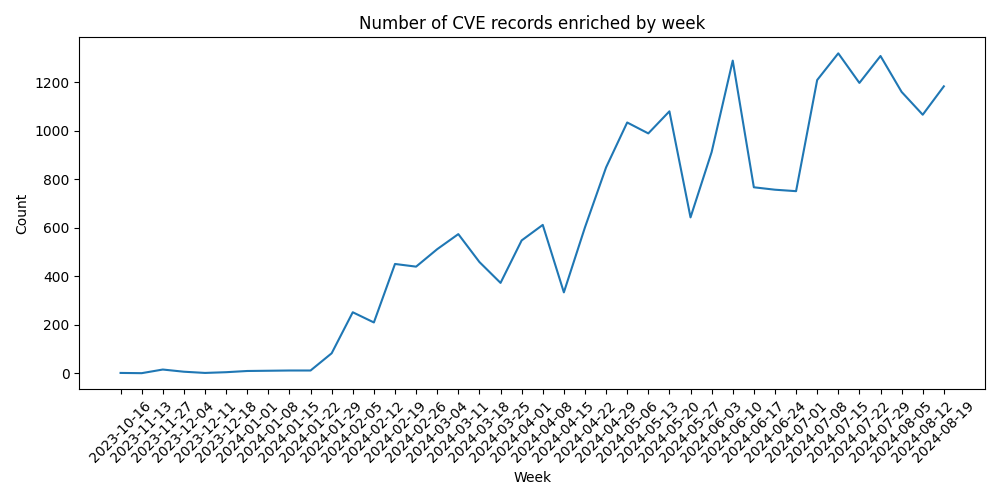
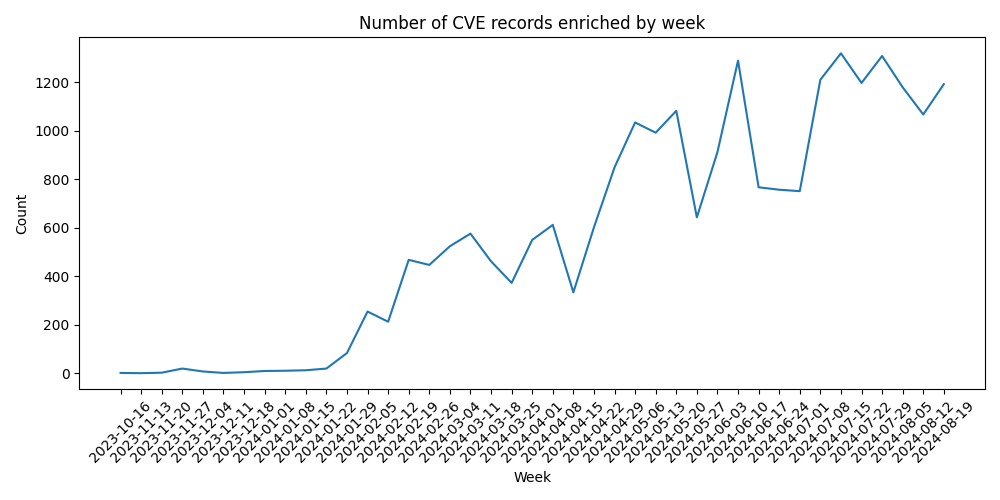
Daily update: 08-29-2024

diff --git a/archive/vulnrichment.html b/archive/vulnrichment.html
@@ -12,7 +12,7 @@
 <body>
     <div class="container">
       <h1 class="my-4 title">Vulnrichment Dashboard</h1>
-      <p> Updated 2024-08-29 12:43:54 PST</p>
+      <p> Updated 2024-08-29 13:37:10 PST</p>
       <h4 class="my-4">CVE SSVC Enrichment Data</h4>
       
       <p>The data presented in this table represents the number of CVE records enriched by the Cybersecurity and Infrastructure Security Agency (CISA) as part of their vulnerability enrichment (vulnrichment) effort. The records are categorized by different time periods: Today, This Week, Last Week, This Month, Last Month, and This Year. These time periods are calculated using the timestamp values found in the SSVC content provided by CISA in the <a href="https://github.com/cisagov/vulnrichment">vulnrichment</a> GitHub repository.</p>
@@ -25,27 +25,27 @@
         </thead>
         <tr>
             <td>Today</td>
-            <td>0</td>
+            <td>289</td>
         </tr>
         <tr>
             <td>This week</td>
-            <td>749</td>
+            <td>1045</td>
         </tr>
         <tr>
             <td>Last week</td>
-            <td>1183</td>
+            <td>1192</td>
         </tr>
         <tr>
             <td>This month</td>
-            <td>4784</td>
+            <td>5109</td>
         </tr>
         <tr>
             <td>Last month</td>
-            <td>5158</td>
+            <td>5159</td>
         </tr>
         <tr>
             <td>This year</td>
-            <td>23757</td>
+            <td>24147</td>
         </tr>
     </table>
       <div class="row">
@@ -63,15 +63,15 @@
                 </thead>
                 <tr>
                     <td>Active</td>
-                    <td>138</td>
+                    <td>139</td>
                 </tr>
                 <tr>
                     <td>POC</td>
-                    <td>4527</td>
+                    <td>4641</td>
                 </tr>
                 <tr>
                     <td>None</td>
-                    <td>19125</td>
+                    <td>19408</td>
                 </tr>
             </table>
         </div>
@@ -86,11 +86,11 @@
                 </thead>
                 <tr>
                     <td>Yes</td>
-                    <td>3934</td>
+                    <td>4051</td>
                 </tr>
                 <tr>
                     <td>No</td>
-                    <td>19856</td>
+                    <td>20137</td>
                 </tr>
             </table>
         </div>
@@ -106,11 +106,11 @@
                 </thead>
                 <tr>
                     <td>Total</td>
-                    <td>7982</td>
+                    <td>8133</td>
                 </tr>
                 <tr>
                     <td>Partial</td>
-                    <td>15808</td>
+                    <td>16055</td>
                 </tr>
             </table>
         </div>
@@ -127,19 +127,19 @@
                 </thead>
                 <tr>
                     <td>CVSS 3.1 Score</td>
-                    <td>4174</td>
+                    <td>4288</td>
                 </tr>
                 <tr>
                     <td>CWE-ID</td>
-                    <td>3915</td>
+                    <td>4022</td>
                 </tr>
                 <tr>
                     <td>CPE String (at least 1)</td>
-                    <td>12081</td>
+                    <td>12279</td>
                 </tr>
                 <tr>
                     <td>CISA KEV Presence</td>
-                    <td>136</td>
+                    <td>137</td>
           </table>
         </div>
     </div>
@@ -156,27 +156,27 @@
             
             <tr>
                 <td>CWE-79 - Improper Neutralization of Input During Web Page Generation ('Cross-site Scripting')</td>
-                <td>375</td>
+                <td>385</td>
             </tr>
             
             <tr>
                 <td>CWE-89 - Improper Neutralization of Special Elements used in an SQL Command ('SQL Injection')</td>
-                <td>365</td>
+                <td>374</td>
             </tr>
             
             <tr>
                 <td>CWE-121 - Stack-based Buffer Overflow</td>
-                <td>259</td>
+                <td>262</td>
             </tr>
             
             <tr>
                 <td>CWE-94 - Improper Control of Generation of Code ('Code Injection')</td>
-                <td>206</td>
+                <td>208</td>
             </tr>
             
             <tr>
                 <td>CWE-284 - Improper Access Control</td>
-                <td>163</td>
+                <td>167</td>
             </tr>
             
         </table>
@@ -199,10 +199,10 @@
         </tr>
     </thead>
     <tbody>
-        <tr><td><span style="background-color:black; padding: 5px; font-weight: bold; color: white;">Critical</span></td><td>863</td></tr>
-        <tr><td><span style="background-color:red; padding: 5px; font-weight: bold;">High</span></td><td>1915</td></tr>
-        <tr><td><span style="background-color:orange; padding: 5px; font-weight: bold;">Medium</span></td><td>1335</td></tr>
-        <tr><td><span style="background-color:yellow; padding: 5px; font-weight: bold;">Low</span></td><td>48</td></tr>
+        <tr><td><span style="background-color:black; padding: 5px; font-weight: bold; color: white;">Critical</span></td><td>896</td></tr>
+        <tr><td><span style="background-color:red; padding: 5px; font-weight: bold;">High</span></td><td>1964</td></tr>
+        <tr><td><span style="background-color:orange; padding: 5px; font-weight: bold;">Medium</span></td><td>1365</td></tr>
+        <tr><td><span style="background-color:yellow; padding: 5px; font-weight: bold;">Low</span></td><td>50</td></tr>
         <tr><td><span style="background-color:gray; padding: 5px; font-weight: bold; color: white;">None</span></td><td>13</td></tr>
     </tbody>
 </table>

diff --git a/archive/2024-08-29.html b/archive/2024-08-29.html
@@ -39,14 +39,14 @@
                 
             
         
-    <p>The following estimates are calculated using data from the <a href='https://nvd.nist.gov/general/nvd-dashboard'>NVD Dashboard</a>. At the time of this reports generation, NVD's 2024 daily average for analyzing new CVEs is 35.83. There is a current backlog of 17575 CVEs awaiting analysis. With an average influx of 109.99 new CVEs per day, a daily average of 251.72 analyses is required to clear this backlog and process new CVEs. Currently, NVD is falling short of this goal by 215.89 CVEs a day. Given this data, if the current daily rate of CVE analysis persists, the projected number of CVEs awaiting analysis by the end of 2024 will be 26770.84.</p>
+    <p>The following estimates are calculated using data from the <a href='https://nvd.nist.gov/general/nvd-dashboard'>NVD Dashboard</a>. At the time of this reports generation, NVD's 2024 daily average for analyzing new CVEs is 35.87. There is a current backlog of 17567 CVEs awaiting analysis. With an average influx of 109.99 new CVEs per day, a daily average of 251.66 analyses is required to clear this backlog and process new CVEs. Currently, NVD is falling short of this goal by 215.79 CVEs a day. Given this data, if the current daily rate of CVE analysis persists, the projected number of CVEs awaiting analysis by the end of 2024 will be 26757.88.</p>
 <table class="table table-striped table-hover"><thead><tr><th scope="col">Time Period</th><th scope="col">New CVEs Received by NVD</th><th scope="col">New CVEs Analyzed by NVD</th><th scope="col">Modified CVEs Received by NVD</th><th scope="col">Modified CVEs Re-analyzed by NVD</th><th scope="col">Percent of New CVEs Analyzed</th><th scope="col">Daily Average New CVEs Analyzed</th></tr></thead>
 <tbody>
-<tr><td>Today</td><td>83</td><td>94</td><td>0</td><td>1</td><td>113.25%</td><td></td></tr>
-<tr><td>This Week</td><td>390</td><td>423</td><td>0</td><td>29</td><td>108.46%</td><td>105.75</td></tr>
-<tr><td>This Month</td><td>2796</td><td>2257</td><td>0</td><td>120</td><td>80.72%</td><td>77.83</td></tr>
+<tr><td>Today</td><td>83</td><td>103</td><td>0</td><td>1</td><td>124.10%</td><td></td></tr>
+<tr><td>This Week</td><td>390</td><td>432</td><td>0</td><td>29</td><td>110.77%</td><td>108.00</td></tr>
+<tr><td>This Month</td><td>2796</td><td>2266</td><td>0</td><td>120</td><td>81.04%</td><td>78.14</td></tr>
 <tr><td>Last Month</td><td>3155</td><td>1106</td><td>0</td><td>383</td><td>35.06%</td><td>36.87</td></tr>
-<tr><td>This Year</td><td>26507</td><td>8636</td><td>0</td><td>2014</td><td>32.58%</td><td>35.83</td></tr>
+<tr><td>This Year</td><td>26507</td><td>8645</td><td>0</td><td>2014</td><td>32.61%</td><td>35.87</td></tr>
 </tbody>
 </table>
 <h2 class="text-center mb-4 mt-5">2024 Backlog + Daily New CVE Effort Requirements</h2>
@@ -54,7 +54,7 @@
 <table class="table table-striped rounded table-hover">
 <thead><tr><th>CVEs Awaiting Analysis</th><th>Days Left in 2024</th><th>Daily Average Required to Analyze Backlog</th><th>Average New Daily CVEs (2024)</th><th>2024 Required Total Daily Effort (Avg. Daily New CVEs + Backlog CVEs)</th></tr></thead>
 <tbody>
-<tr><td>17575</td><td>124</td><td>141.73</td><td>109.99</td><td>251.72</td></tr>
+<tr><td>17567</td><td>124</td><td>141.67</td><td>109.99</td><td>251.66</td></tr>
 </tbody>
 </table>
 <h2 class="text-center mb-4 mt-5">End of Year Estimate</h2>
@@ -63,9 +63,9 @@
 <table class="table table-striped table-hover">
 <thead><tr><th>Average New Daily CVEs</th><th>CVEs Awaiting Analysis</th><th>Days Left in 2024</th><th>2024 Daily New CVE Analysis Average</th><th>Estimated CVEs Awaiting Analysis at EOY</th></tr></thead>
 <tbody>
-<tr><td>109.99</td><td>17575</td><td>124</td><td>35.83</td><td>26770.84</td></tr>
+<tr><td>109.99</td><td>17567</td><td>124</td><td>35.87</td><td>26757.88</td></tr>
 </tbody>
 </table>
 </div>
-<p class="text-right mt-4">Generated on 2024-08-29 12:44:09 PST</p>
+<p class="text-right mt-4">Generated on 2024-08-29 13:37:23 PST</p>
 </div></body></html>

diff --git a/index.html b/index.html
@@ -39,14 +39,14 @@
                 
             
         
-    <p>The following estimates are calculated using data from the <a href='https://nvd.nist.gov/general/nvd-dashboard'>NVD Dashboard</a>. At the time of this reports generation, NVD's 2024 daily average for analyzing new CVEs is 35.83. There is a current backlog of 17575 CVEs awaiting analysis. With an average influx of 109.99 new CVEs per day, a daily average of 251.72 analyses is required to clear this backlog and process new CVEs. Currently, NVD is falling short of this goal by 215.89 CVEs a day. Given this data, if the current daily rate of CVE analysis persists, the projected number of CVEs awaiting analysis by the end of 2024 will be 26770.84.</p>
+    <p>The following estimates are calculated using data from the <a href='https://nvd.nist.gov/general/nvd-dashboard'>NVD Dashboard</a>. At the time of this reports generation, NVD's 2024 daily average for analyzing new CVEs is 35.87. There is a current backlog of 17567 CVEs awaiting analysis. With an average influx of 109.99 new CVEs per day, a daily average of 251.66 analyses is required to clear this backlog and process new CVEs. Currently, NVD is falling short of this goal by 215.79 CVEs a day. Given this data, if the current daily rate of CVE analysis persists, the projected number of CVEs awaiting analysis by the end of 2024 will be 26757.88.</p>
 <table class="table table-striped table-hover"><thead><tr><th scope="col">Time Period</th><th scope="col">New CVEs Received by NVD</th><th scope="col">New CVEs Analyzed by NVD</th><th scope="col">Modified CVEs Received by NVD</th><th scope="col">Modified CVEs Re-analyzed by NVD</th><th scope="col">Percent of New CVEs Analyzed</th><th scope="col">Daily Average New CVEs Analyzed</th></tr></thead>
 <tbody>
-<tr><td>Today</td><td>83</td><td>94</td><td>0</td><td>1</td><td>113.25%</td><td></td></tr>
-<tr><td>This Week</td><td>390</td><td>423</td><td>0</td><td>29</td><td>108.46%</td><td>105.75</td></tr>
-<tr><td>This Month</td><td>2796</td><td>2257</td><td>0</td><td>120</td><td>80.72%</td><td>77.83</td></tr>
+<tr><td>Today</td><td>83</td><td>103</td><td>0</td><td>1</td><td>124.10%</td><td></td></tr>
+<tr><td>This Week</td><td>390</td><td>432</td><td>0</td><td>29</td><td>110.77%</td><td>108.00</td></tr>
+<tr><td>This Month</td><td>2796</td><td>2266</td><td>0</td><td>120</td><td>81.04%</td><td>78.14</td></tr>
 <tr><td>Last Month</td><td>3155</td><td>1106</td><td>0</td><td>383</td><td>35.06%</td><td>36.87</td></tr>
-<tr><td>This Year</td><td>26507</td><td>8636</td><td>0</td><td>2014</td><td>32.58%</td><td>35.83</td></tr>
+<tr><td>This Year</td><td>26507</td><td>8645</td><td>0</td><td>2014</td><td>32.61%</td><td>35.87</td></tr>
 </tbody>
 </table>
 <h2 class="text-center mb-4 mt-5">2024 Backlog + Daily New CVE Effort Requirements</h2>
@@ -54,7 +54,7 @@
 <table class="table table-striped rounded table-hover">
 <thead><tr><th>CVEs Awaiting Analysis</th><th>Days Left in 2024</th><th>Daily Average Required to Analyze Backlog</th><th>Average New Daily CVEs (2024)</th><th>2024 Required Total Daily Effort (Avg. Daily New CVEs + Backlog CVEs)</th></tr></thead>
 <tbody>
-<tr><td>17575</td><td>124</td><td>141.73</td><td>109.99</td><td>251.72</td></tr>
+<tr><td>17567</td><td>124</td><td>141.67</td><td>109.99</td><td>251.66</td></tr>
 </tbody>
 </table>
 <h2 class="text-center mb-4 mt-5">End of Year Estimate</h2>
@@ -63,9 +63,9 @@
 <table class="table table-striped table-hover">
 <thead><tr><th>Average New Daily CVEs</th><th>CVEs Awaiting Analysis</th><th>Days Left in 2024</th><th>2024 Daily New CVE Analysis Average</th><th>Estimated CVEs Awaiting Analysis at EOY</th></tr></thead>
 <tbody>
-<tr><td>109.99</td><td>17575</td><td>124</td><td>35.83</td><td>26770.84</td></tr>
+<tr><td>109.99</td><td>17567</td><td>124</td><td>35.87</td><td>26757.88</td></tr>
 </tbody>
 </table>
 </div>
-<p class="text-right mt-4">Generated on 2024-08-29 12:44:09 PST</p>
+<p class="text-right mt-4">Generated on 2024-08-29 13:37:23 PST</p>
 </div></body></html>
